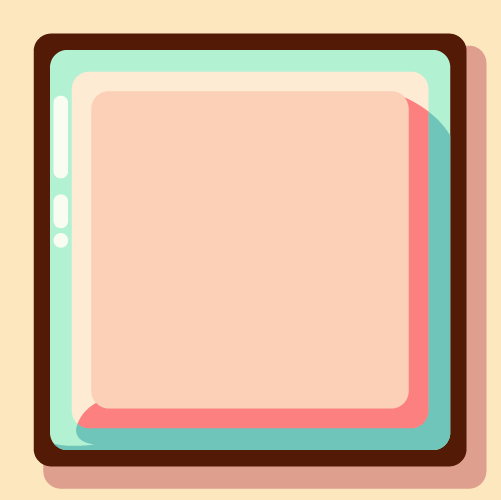
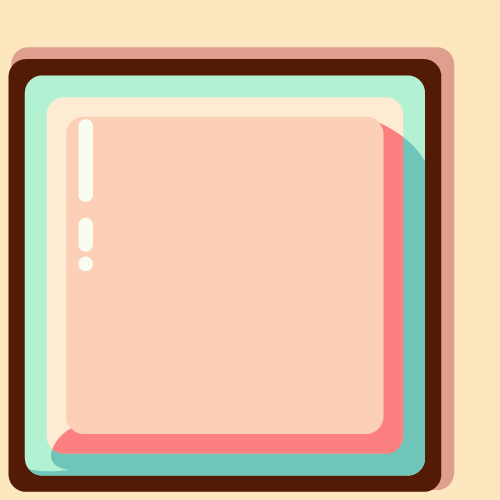
add background

diff --git a/src/main/java/ca/bcit/comp2522/termproject/javagame/Slime.java b/src/main/java/ca/bcit/comp2522/termproject/javagame/Slime.java
@@ -30,8 +30,10 @@ public abstract class Slime extends Circle implements Runnable {
 
     private static final Random GENERATOR = new Random();
 
-    private static final int MAX_X = 500; // horizontal edge of enclosing Panel
-    private static final int MAX_Y = 500; // vertical edge of enclosing Panel
+    private static final int MAX_X = 425; // horizontal edge of enclosing Panel
+    private static final int MAX_Y = 475; // vertical edge of enclosing Panel
+    private static final int MIN_X = 25; // horizontal edge of enclosing Panel
+    private static final int MIN_Y = 75; // vertical edge of enclosing Panel
 
     //    private int dx; // change in horizontal position of ball
 //    private int dy; // change in vertical position of ball
@@ -182,36 +184,21 @@ public abstract class Slime extends Circle implements Runnable {
                 exception.printStackTrace();
             }
             Platform.runLater(() -> {
-                if (this.getCenterY() <= 0 && this.getYVelocity() < 0) {
+                if (this.getCenterY() - this.getRadius() <= MIN_Y && this.getYVelocity() < 0) {
                     yVelocity = GENERATOR.nextInt(1, 6);
-                    animateRotation(imageView, GENERATOR.nextInt(180));
-                    this.grow(1);
-                    if (this.size >= 10) {
-                        this.split(this.petriDish);
-                    }
-                } else if (this.getCenterY() >= MAX_Y && this.getYVelocity() > 0) {
+                    reachEdgeAction();
+                } else if (this.getCenterY() + this.getRadius() >= MAX_Y && this.getYVelocity() > 0) {
                     yVelocity = GENERATOR.nextInt(1, 6) * -1;
-                    animateRotation(imageView, GENERATOR.nextInt(180));
-                    this.grow(1);
-                    if (this.size >= 10) {
-                        this.split(this.petriDish);
-                    }
+                    reachEdgeAction();
                 }
                 // if bounce off left or right of Panel
-                if (this.getCenterX() <= 0 && this.getXVelocity() < 0) {
+                if (this.getCenterX() - this.getRadius() <= MIN_X && this.getXVelocity() < 0) {
                     xVelocity = GENERATOR.nextInt(1, 6);
                     animateRotation(imageView, GENERATOR.nextInt(180));
-                    this.grow(1);
-                    if (this.size >= 10) {
-                        this.split(this.petriDish);
-                    }
-                } else if (this.getCenterX() >= MAX_Y && this.getXVelocity() > 0) {
+                    reachEdgeAction();
+                } else if (this.getCenterX() + this.getRadius() >= MAX_X && this.getXVelocity() > 0) {
                     xVelocity = GENERATOR.nextInt(1, 6) * -1;
-                    animateRotation(imageView, GENERATOR.nextInt(180));
-                    this.grow(1);
-                    if (this.size >= 10) {
-                        this.split(this.petriDish);
-                    }
+                    reachEdgeAction();
                 }
                 // Update the position of the ball
                 this.setCenterX(this.getCenterX() + xVelocity); // determines new x-position
@@ -222,6 +209,13 @@ public abstract class Slime extends Circle implements Runnable {
                     imageView.setY(this.getCenterY() - this.getRadius());
                 }
             });
+        }
+    }
+    private void reachEdgeAction(){
+        animateRotation(imageView, GENERATOR.nextInt(180));
+        this.grow(1);
+        if (this.size >= 10) {
+            this.split(this.petriDish);
         }
     }
 
@@ -284,8 +278,9 @@ public abstract class Slime extends Circle implements Runnable {
     public void grow(int growCoefficient) {
         this.size += growCoefficient;
         System.out.println(this.size);
-        this.imageView.setFitWidth(imageView.getFitWidth() + 3 * growCoefficient);
-        this.imageView.setFitHeight(imageView.getFitHeight() + 3 * growCoefficient);
+        this.setRadius(this.getRadius() + 2 * growCoefficient);
+        imageView.setFitHeight(getRadius() * 2); // 根据Slime大小调整图片大小
+        imageView.setFitWidth(getRadius() * 2);
 
     }
 

diff --git a/src/main/java/ca/bcit/comp2522/termproject/javagame/BouncingSlimes.java b/src/main/java/ca/bcit/comp2522/termproject/javagame/BouncingSlimes.java
@@ -3,6 +3,8 @@ package ca.bcit.comp2522.termproject.javagame;
 
 import javafx.application.Application;
 import javafx.scene.Scene;
+import javafx.scene.image.Image;
+import javafx.scene.image.ImageView;
 import javafx.scene.layout.Pane;
 import javafx.stage.Stage;
 
@@ -23,14 +25,20 @@ public class BouncingSlimes extends Application {
      * @param primaryStage contains the Scene
      */
     public void start(final Stage primaryStage) {
+        Image backgroundImg = new Image("regularPetriDish.png");
+        ImageView imageView = new ImageView(backgroundImg);
+
         PetriDish petriDish = new PetriDish();
         Pane canvas = petriDish.getCanvas();
+        canvas.getChildren().add(imageView);
         Scene scene = new Scene(canvas, 500, 500);
 
         Slime defaultSlime = new YellowSlime(250, 250, petriDish);
         defaultSlime.addToPane(canvas);
         defaultSlime.startThread();
 
+        Image icon = new Image("pinkSlime.png");
+        primaryStage.getIcons().add(icon);
         primaryStage.setTitle("Threads and Balls");
         primaryStage.setScene(scene);
         primaryStage.show();
